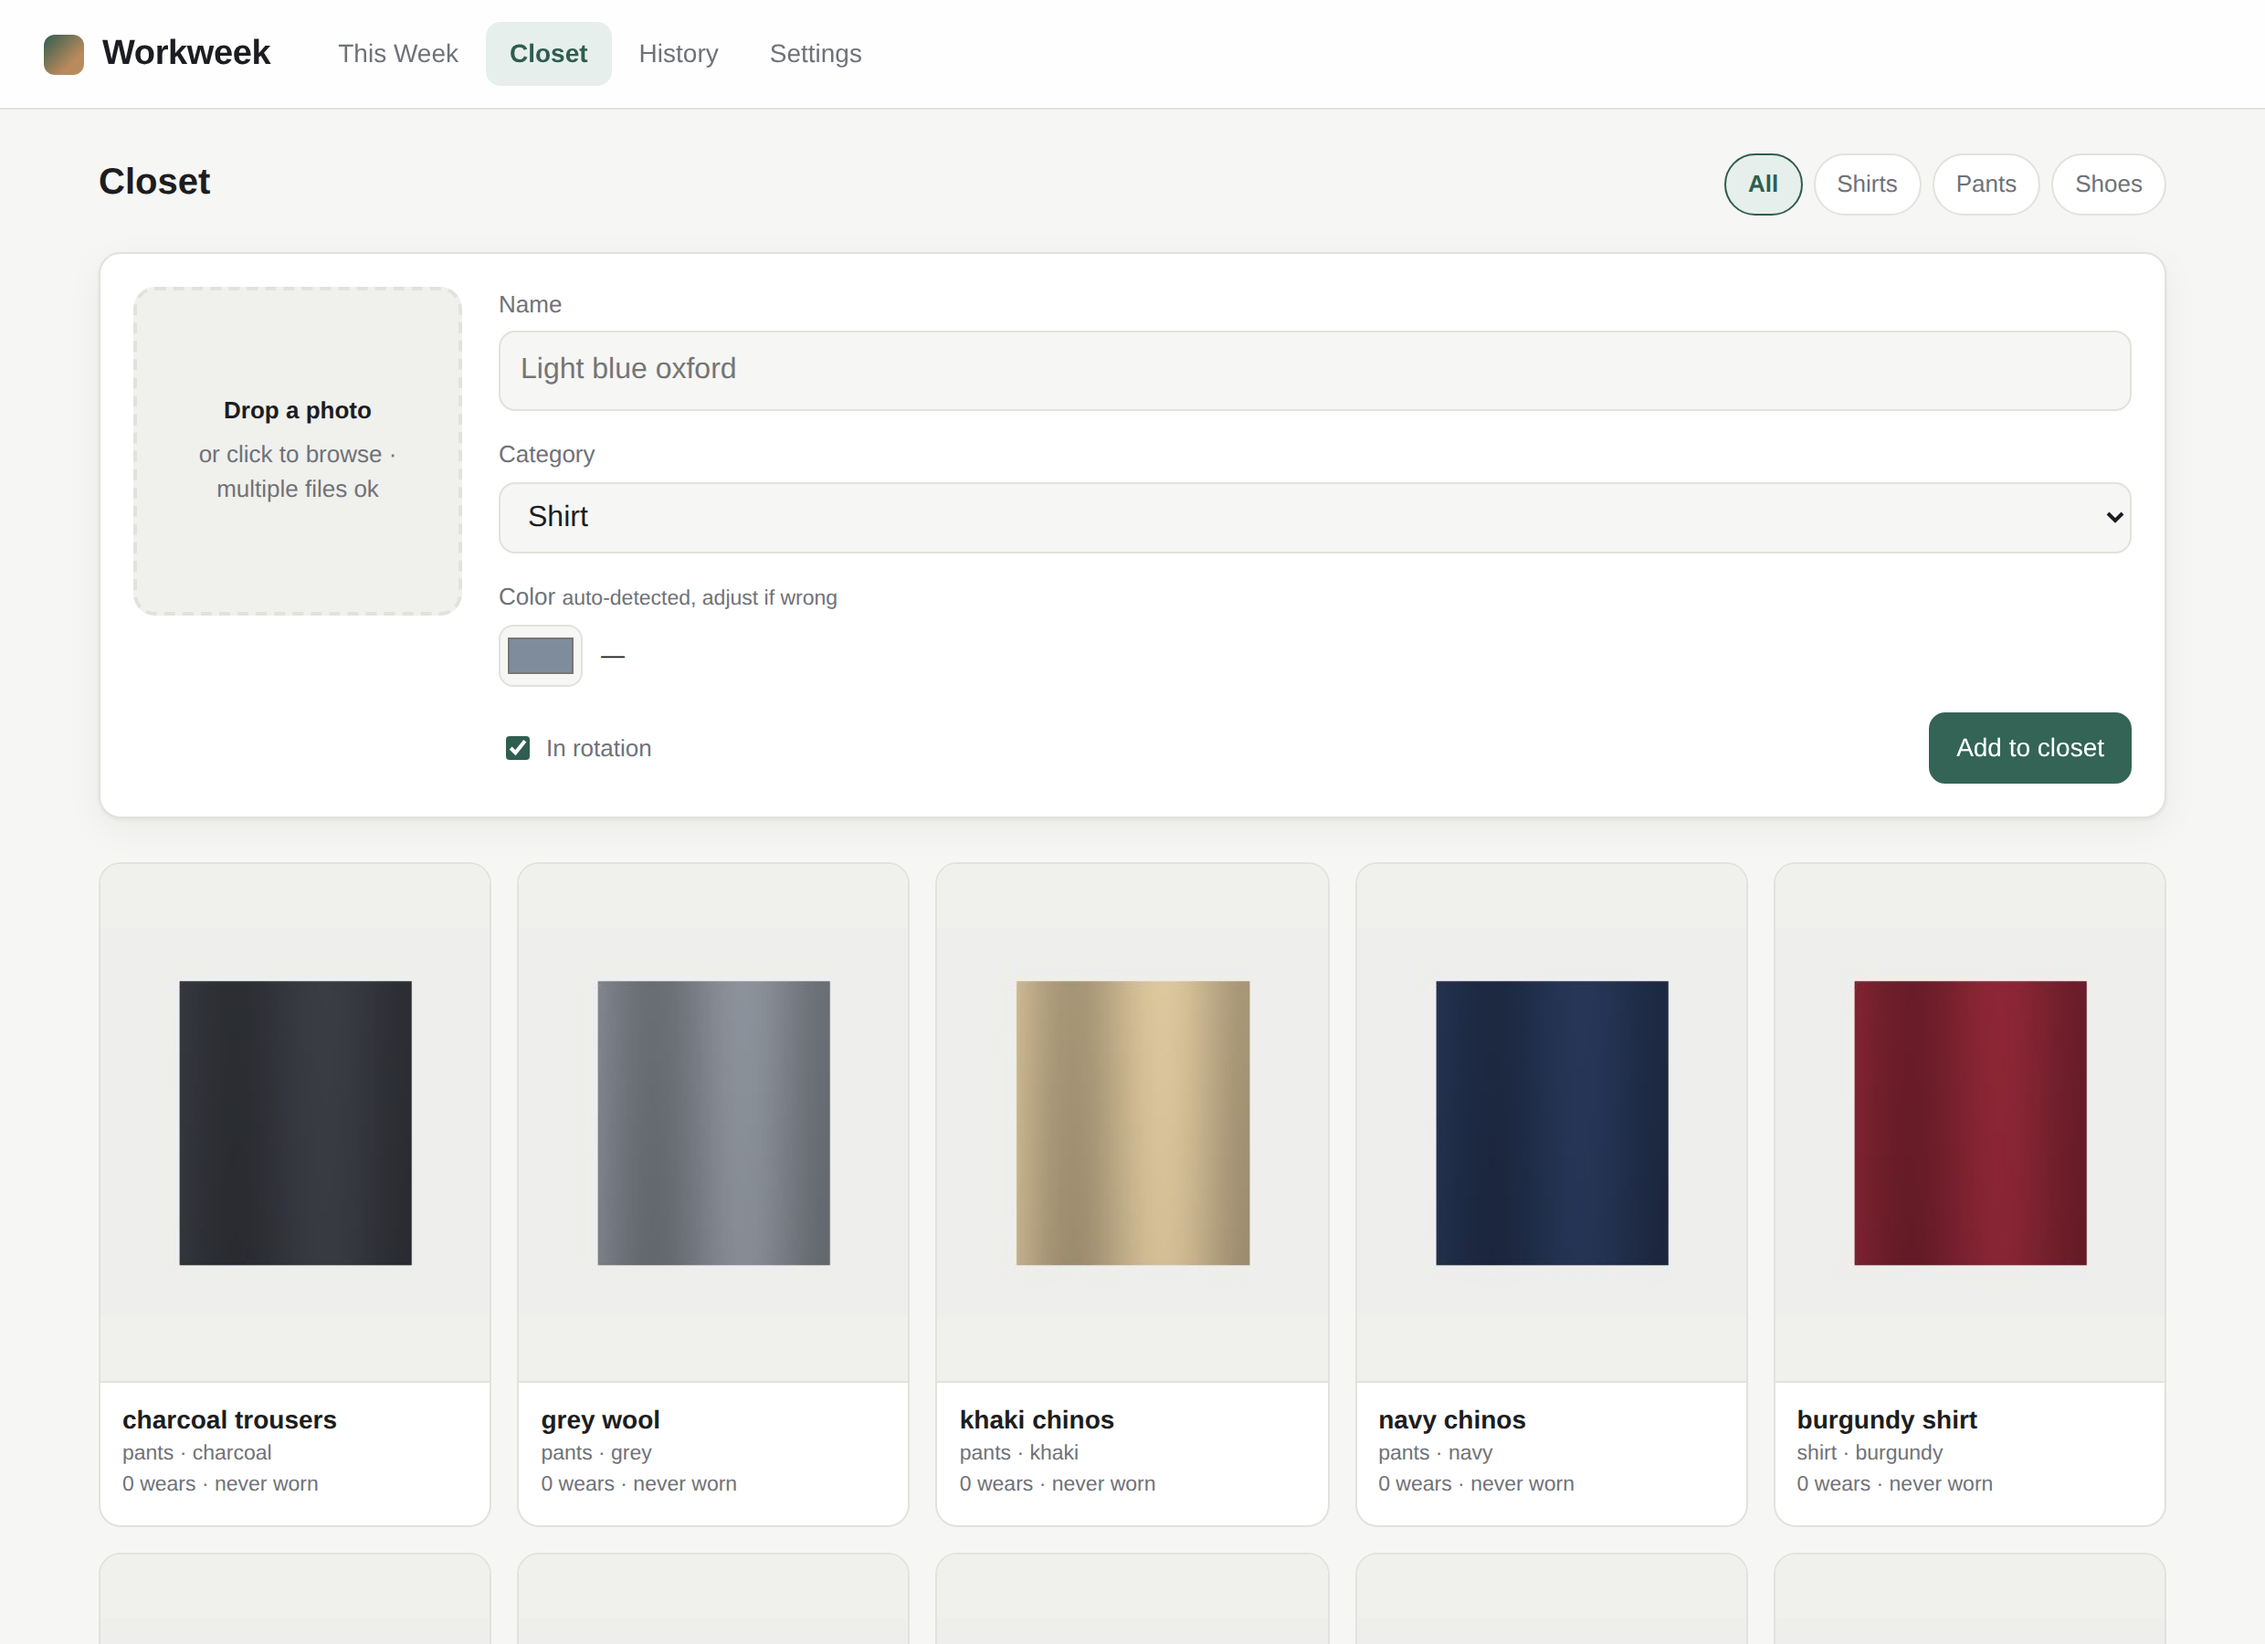
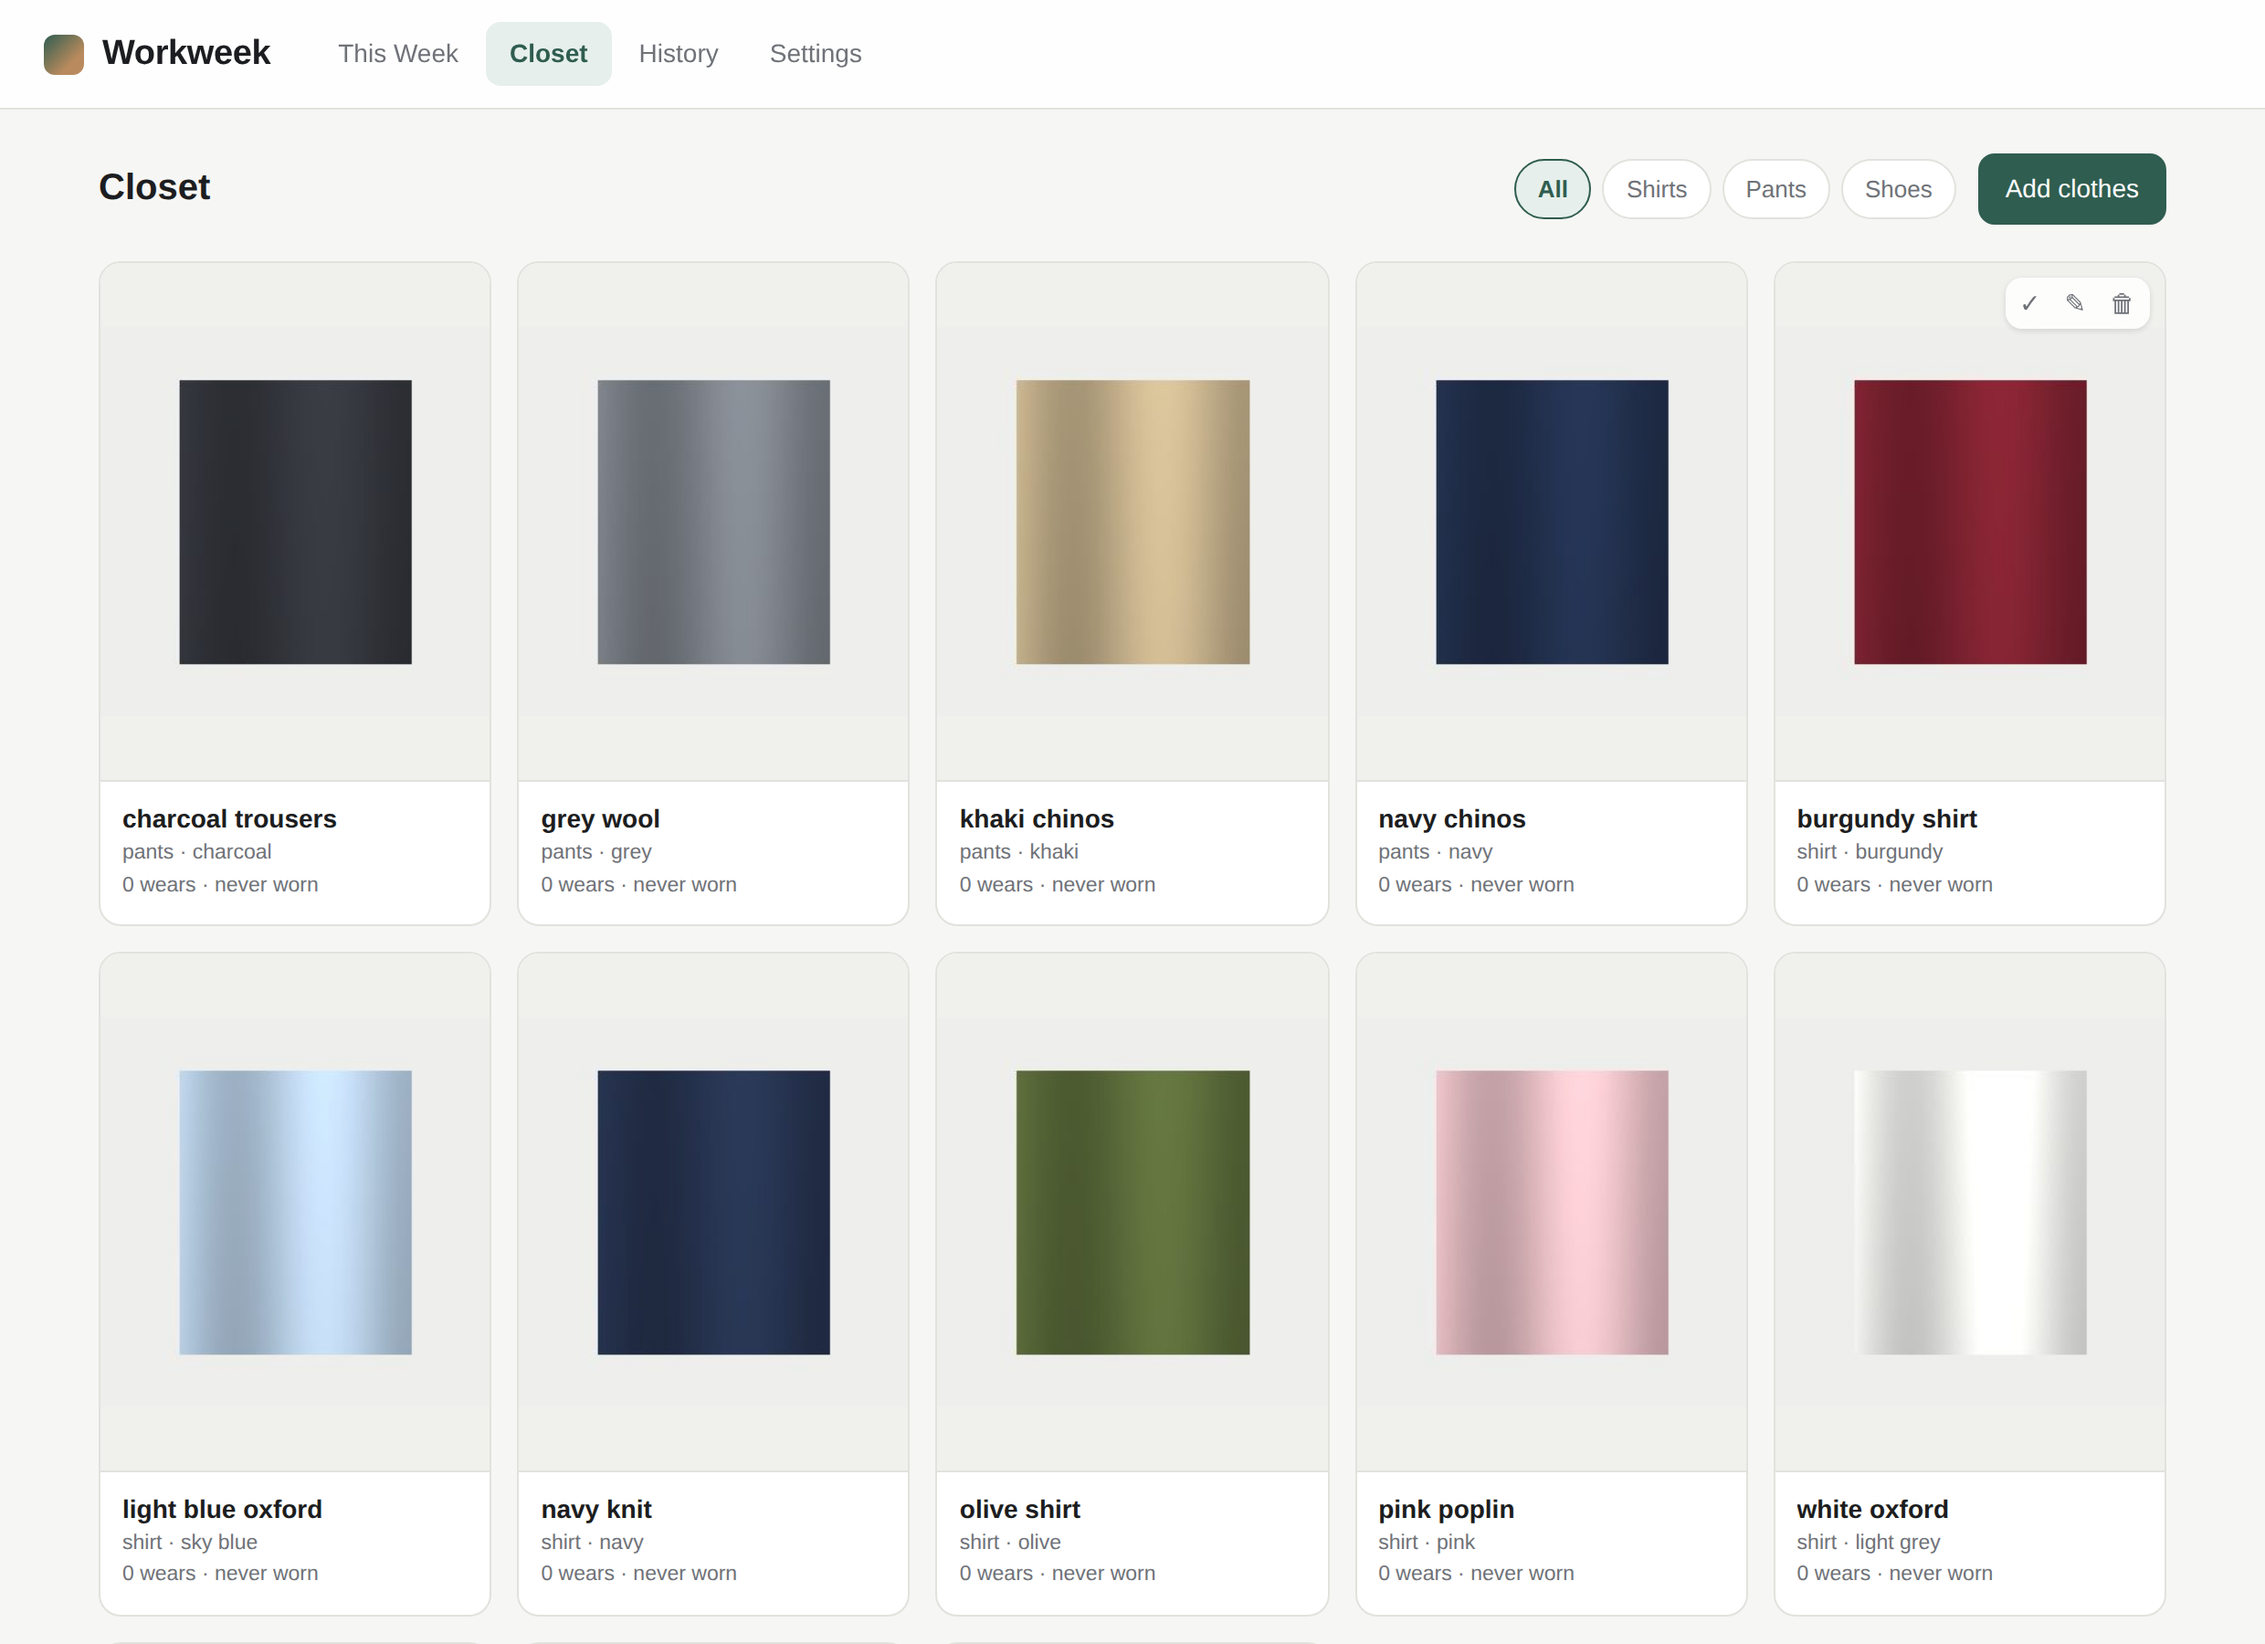
Put the add form behind a button, and enlarge week thumbnails
The add-clothes form sat permanently above the closet grid. On a phone it
filled the entire first screen, so opening the closet showed a form rather than
any clothes. It is now behind an "Add clothes" button in the closet header:
three garments are visible without scrolling where none were before.

Chose an expanding panel over a fifth nav tab: the tab bar is already four
items and tight on a phone, and adding a shirt then watching it land in the
grid below beats bouncing between tabs to check.

The panel opens on the button, opens by itself when photos are dragged anywhere
over the closet so the drop target is never hidden, stays open while a queue of
photos drains, and closes once the last is saved — then scrolls the grid back
into view so the new items are what you land on. Editing an item reopens it,
since it is the same form, and cancelling closes it.

Week thumbnails go from 46px to 76px with the same `contain` treatment as the
closet cards, which had the same problem of being too small to tell one white
shirt from another.

Also adds scroll-margin-top to scroll targets. Every scrollIntoView in the app
was landing content underneath the sticky top bar; it showed up as the "Closet"
heading half-hidden behind the tabs after the panel closed.

Claude-Session: https://claude.ai/code/session_017diFJ6E3PX5swqonS2Gxdn

diff --git a/styles.css b/styles.css
@@ -83,6 +83,13 @@ main { max-width: 1180px; margin: 0 auto; padding: 24px; }
   gap: 16px; flex-wrap: wrap; margin-bottom: 20px;
 }
 
+/* The top bar is sticky, so anything scrolled to with scrollIntoView would sit
+   underneath it. Reserve its height on every scroll target. */
+.view-head, .add-card, .day-card, .item-card { scroll-margin-top: 88px; }
+@media (max-width: 640px) {
+  .view-head, .add-card, .day-card, .item-card { scroll-margin-top: 124px; }
+}
+
 /* ---------------- buttons ---------------- */
 
 .btn {
@@ -154,14 +161,19 @@ main { max-width: 1180px; margin: 0 auto; padding: 24px; }
 
 .pieces { display: flex; flex-direction: column; gap: 2px; padding: 0 10px; }
 
-.piece { display: flex; align-items: center; gap: 12px; padding: 7px 6px; border-radius: 9px; }
+.piece { display: flex; align-items: center; gap: 13px; padding: 8px 6px; border-radius: 9px; }
 .piece:hover { background: var(--surface-2); }
 
 .thumb {
-  width: 46px; height: 46px; flex: none;
+  width: 76px; height: 76px; flex: none;
   border-radius: 8px; overflow: hidden; border: 1px solid var(--border);
 }
-.thumb img { width: 100%; height: 100%; object-fit: cover; display: block; }
+/* `contain` for the same reason as the closet cards: identifying the garment
+   matters more than a tidy edge. */
+.thumb img {
+  width: 100%; height: 100%; object-fit: contain; display: block;
+  background: var(--surface-2);
+}
 
 .piece-meta { display: flex; flex-direction: column; min-width: 0; }
 .piece-meta strong { font-size: 14px; font-weight: 600; overflow: hidden; text-overflow: ellipsis; white-space: nowrap; }
@@ -195,7 +207,10 @@ main { max-width: 1180px; margin: 0 auto; padding: 24px; }
   border-radius: var(--radius); box-shadow: var(--shadow);
 }
 
-.add-card { display: flex; gap: 20px; padding: 18px; margin-bottom: 24px; flex-wrap: wrap; }
+.add-card { display: none; gap: 20px; padding: 18px; margin-bottom: 24px; flex-wrap: wrap; }
+.add-card.is-open { display: flex; }
+
+.closet-head-actions { display: flex; align-items: center; gap: 12px; flex-wrap: wrap; }
 
 .drop-zone {
   width: 180px; height: 180px; flex: none;
@@ -362,6 +377,8 @@ input[type=color] {
   .add-card { flex-direction: column; }
   .drop-zone { width: 100%; height: 150px; }
   .closet-grid { gap: 10px; grid-template-columns: repeat(auto-fill, minmax(140px, 1fr)); }
+  .closet-head-actions { width: 100%; justify-content: space-between; }
+  .view-head h2 { width: 100%; }
 }
 
 /* ---------------- sync ---------------- */

diff --git a/js/app.js b/js/app.js
@@ -391,9 +391,38 @@
 
   /* ---------------------- closet ---------------------- */
 
+  function setAddPanel(open) {
+    const form = $('#add-form');
+    const toggle = $('#add-toggle');
+    form.classList.toggle('is-open', open);
+    toggle.setAttribute('aria-expanded', String(open));
+    toggle.textContent = open ? 'Close' : 'Add clothes';
+    if (open) form.scrollIntoView({ behavior: 'smooth', block: 'nearest' });
+  }
+
+  const addPanelOpen = () => $('#add-form').classList.contains('is-open');
+
+  const revealCloset = () =>
+    $('#view-closet .view-head').scrollIntoView({ behavior: 'smooth', block: 'start' });
+
   function bindClosetEvents() {
     const zone = $('#drop-zone');
     const input = $('#file-input');
+
+    $('#add-toggle').addEventListener('click', () => {
+      const opening = !addPanelOpen();
+      if (!opening) resetForm();          // closing discards a half-filled entry
+      setAddPanel(opening);
+      if (opening) $('#item-name').focus({ preventScroll: true });
+    });
+
+    // Dragging photos anywhere over the closet opens the panel for you, so the
+    // drop target is not hidden behind a button press.
+    $('#view-closet').addEventListener('dragover', e => {
+      if (!addPanelOpen() && e.dataTransfer && Array.from(e.dataTransfer.types).includes('Files')) {
+        setAddPanel(true);
+      }
+    });
 
     zone.addEventListener('click', () => input.click());
     zone.addEventListener('keydown', e => {
@@ -414,7 +443,7 @@
     });
 
     $('#add-form').addEventListener('submit', e => { e.preventDefault(); saveItem(); });
-    $('#cancel-edit').addEventListener('click', resetForm);
+    $('#cancel-edit').addEventListener('click', () => { resetForm(); setAddPanel(false); });
 
     $$('.closet-filters .chip').forEach(chip => chip.addEventListener('click', () => {
       state.filter = chip.dataset.filter;
@@ -543,7 +572,7 @@
       toast(`${saved.name} saved.`);
 
       if (next) { loadIntoForm(next); renderQueue(); }
-      else { renderQueue(); }
+      else { renderQueue(); setAddPanel(false); revealCloset(); }
     });
   }
 
@@ -562,6 +591,7 @@
     const img = $('#preview');
     const url = urlFor(item);
     if (url) { img.src = url; img.classList.remove('hidden'); $('#drop-hint').classList.add('hidden'); }
+    setAddPanel(true);
     $('#add-form').scrollIntoView({ behavior: 'smooth', block: 'center' });
   }
 

diff --git a/index.html b/index.html
@@ -57,11 +57,16 @@
   <section id="view-closet" class="view">
     <div class="view-head">
       <h2>Closet</h2>
-      <div class="closet-filters">
-        <button class="chip is-active" data-filter="all">All</button>
-        <button class="chip" data-filter="shirt">Shirts</button>
-        <button class="chip" data-filter="pants">Pants</button>
-        <button class="chip" data-filter="shoes">Shoes</button>
+      <div class="closet-head-actions">
+        <div class="closet-filters">
+          <button class="chip is-active" data-filter="all">All</button>
+          <button class="chip" data-filter="shirt">Shirts</button>
+          <button class="chip" data-filter="pants">Pants</button>
+          <button class="chip" data-filter="shoes">Shoes</button>
+        </div>
+        <button class="btn btn-primary" id="add-toggle" aria-expanded="false" aria-controls="add-form">
+          Add clothes
+        </button>
       </div>
     </div>
 

diff --git a/README.md b/README.md
@@ -29,10 +29,12 @@ To put it online, push this repo and turn on **GitHub Pages** (Settings → Page
 
 ## Using it
 
-1. **Closet** — drop in photos of your shirts, pants and shoes. Drop several at
-   once and they queue up. Each one gets a name, a category, and a color the app
-   reads off the photo. The four swatches next to the picker are the other
-   colors it found, in case it grabbed your wall instead of your shirt.
+1. **Closet** — **Add clothes** opens the entry panel; dragging photos anywhere
+   over the closet opens it too. Drop several at once and they queue up, one
+   after another, and the panel closes itself when the last one is saved. Each
+   item gets a name, a category, and a color the app reads off the photo. The
+   four swatches next to the picker are the other colors it found, in case it
+   grabbed your wall instead of your shirt.
 2. **This Week** — four outfits, generated. Each shows why it was picked.
    - **Shuffle** re-rolls one day, avoiding what the other days are using.
    - **Lock** pins a day you like so regenerating leaves it alone.
